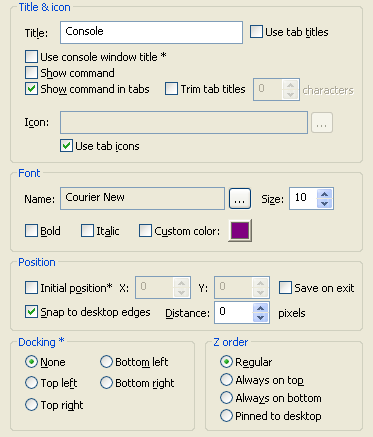
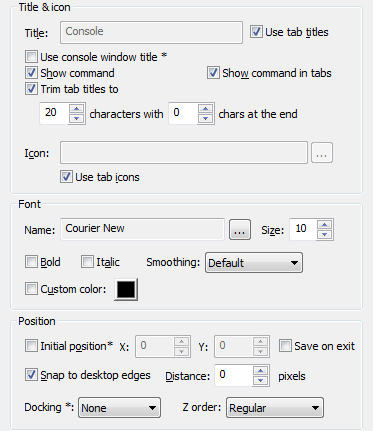
Updates to the original Console help by Vivian De Smedt, Sergey Kozlov
This is a cherry-pick of 5fed8695 with minor corrections.

Changed region(s): [[0.0295, 0.0, 0.9732, 1.0]]

diff --git a/help/html/settings_behavior.html b/help/html/settings_behavior.html
@@ -23,6 +23,18 @@
 	</p>
 	<br />
 
+	<p class="block-row-name">Clear selection on copy</p>
+	<p class="block-row-description">
+		If checked, the selection will be cleared right after being copied.
+		For example, if <b>Copy on select</b> is not checked, you would need to either press
+		<i>Copy selection</i> hotkey or perform <i>Copy/clear selection</i> mouse action to
+		copy the selection to the system clipboard. If this checkbox is checked then
+		the selection will be cleared right after you perform one of those actions. Otherwise,
+		you will need to press <i>Clear selection</i> hotkey or perform <i>Copy/clear selection</i>
+		mouse action to return to the normal mode.
+	</p>
+	<br />
+
 	<p class="block-row-name">Don't wrap long lines</p>
 	<p class="block-row-description">
 		If checked, long lines will not be wrapped. When a selected row 
@@ -52,6 +64,36 @@
 	</p>
 	<br />
 
+	<h2>Copy new line character</h2>
+
+	<p class="block-row-name">Windows (CR+LF)</p>
+	<p class="block-row-description">
+		If selected the copy operation will convert the carriage return using the Windows convention.
+	</p>
+
+	<p class="block-row-name">Unix (LF)</p>
+	<p class="block-row-description">
+		If selected the copy operation will convert the carriage return using the Unix convention.
+	</p>
+	<br />
+
+	<h2>Inactive tab activity flash</h2>
+
+	<p class="block-row-name">Flash inactive tabs</p>
+	<p class="block-row-description">
+		If checked, the inactive tabs flashes when some activities are detected in the corresponding console.
+	</p>
+
+	<p class="block-row-name">Falshes</p>
+	<p class="block-row-description">
+		Indicate the number of times an inactive tab will flash when some activities are detected in the corresponding console.
+	</p>
+
+	<p class="block-row-name">Leave highlighted</p>
+	<p class="block-row-description">
+		If checked, the inactive tab where some activities have been detected in the corresponding console will stay highlighted
+		even if the activities have stopped.
+	</p>
 </body>
 
 </html>

diff --git a/help/html/settings_appearance.html b/help/html/settings_appearance.html
@@ -18,13 +18,13 @@
 
 	<p class="block-row-name">Title</p>
 	<p class="block-row-description">
-		Specifies initial Console title.
+		Specifies the main window title.
 	</p>
 	<br />
 
 	<p class="block-row-name">Use tab titles</p>
 	<p class="block-row-description">
-		If checked, main window title will be set to active tab's title.
+		If checked, main window title will be set to the active tab's title.
 	</p>
 	<br />
 
@@ -53,6 +53,19 @@
 	<p class="block-row-description">
 		If checked, tab titles will be trimmed to specified number of 
 		characters.
+	</p>
+	<br />
+
+	<p class="block-row-name">character width</p>
+	<p class="block-row-description">
+		Specify the maximum number of character of the tab name.
+	</p>
+	<br />
+
+	<p class="block-row-name">chars at end</p>
+	<p class="block-row-description">
+		Specify the number of characters to take from the end of the string.
+		The total number will not exceed the <b>character width</b>.
 	</p>
 	<br />
 
@@ -108,7 +121,7 @@
 
 	<h2>Position</h2>
 
-	<p class="block-row-name">Position window</p>
+	<p class="block-row-name">Initial position</p>
 	<p class="block-row-description">
 		When checked, allows you to specify initial window position. Otherwise, 
 		initial Console window position will be determined by Windows.
@@ -133,7 +146,7 @@
 	</p>
 	<br />
 
-	<p class="block-row-name">Snap distance</p>
+	<p class="block-row-name">Distance</p>
 	<p class="block-row-description">
 		Specifies window snap disance.
 	</p>

diff --git a/help/html/settings.html b/help/html/settings.html
@@ -1,0 +1,29 @@
+<!DOCTYPE html PUBLIC "-//W3C//DTD XHTML 1.0 Strict//EN" "http://www.w3.org/TR/xhtml1/DTD/xhtml1-strict.dtd">
+<html xmlns="http://www.w3.org/1999/xhtml" xml:lang="en">
+
+<head>
+	<title>Settings - Console</title>
+	<meta http-equiv="content-type" content='text/html; charset=utf-8' />
+	<link rel="stylesheet" type="text/css" href="../styles/help.css" />
+</head>
+
+<body>
+	<h1>Settings - Console</h1>
+	
+	<p>
+	<img src="../images/settings.png" />
+	</p>
+
+	<p class="block-row-name">Save settings to user directory</p>
+	<p class="block-row-description">
+		Settings are loaded from user directory by default.
+		If no settings are found in user directory they are loaded from the Console directory.
+		Setting are by default saved to where they have been loaded.
+		If for rights reason this is not possible settings are saved to user directory.
+		If "Save setting to user directory" is checked settings are saved to user directory in any cases.
+	</p>
+	<br />
+
+</body>
+
+</html>

diff --git a/help/html/settings_appearance_more.html b/help/html/settings_appearance_more.html
@@ -46,6 +46,24 @@
 	</p>
 	<br />
 
+	<p class="block-row-name">Tabs on bottom</p>
+	<p class="block-row-description">
+		If checked, tabs bar will appear at the bottom of the main window.
+	</p>
+	<br />
+
+	<p class="block-row-name">Show scrollbars</p>
+	<p class="block-row-description">
+		If checked, scrollbars will be shown if the underlying console shows them.
+		If not checked, scrollbars will be always hidden.
+	</p>
+	<br />
+
+	<p class="block-row-name">Flat scrollbars</p>
+	<p class="block-row-description">
+		If checked, the style of the scrollbars will be flat if available.
+	</p>
+	<br />
 
 	<h2>Styles</h2>
 
@@ -82,6 +100,12 @@
 	<p class="block-row-name">Inside border</p>
 	<p class="block-row-description">
 		Specifies Console's inside (client area) border.
+	</p>
+	<br />
+
+	<p class="block-row-name">Selection color</p>
+	<p class="block-row-description">
+		Sets the background color of the selection. The foreground color will be affected by this color.
 	</p>
 	<br />
 

diff --git a/help/html/menus.html b/help/html/menus.html
@@ -38,9 +38,21 @@
 	</p>
 	<br/>
 
+	<p class="block-row-name">Clear selection</p>
+	<p class="block-row-description">
+		Clears current selection.
+	</p>
+	<br/>
+
 	<p class="block-row-name">Paste</p>
 	<p class="block-row-description">
 		Pastes text from clipboard.
+	</p>
+	<br/>
+
+	<p class="block-row-name">Stop scrolling</p>
+	<p class="block-row-description">
+		When a command produces a lot of output this action prevents the underlying console to scroll by switching to the Select mode. Hit Esc or Enter key to resume scrolling.
 	</p>
 	<br/>
 

diff --git a/help/html/copyright.html b/help/html/copyright.html
@@ -11,7 +11,7 @@
 	<h1>Copyright</h1>
 	
 	<p>
-		Console is Copyright (C) 2001-2007 Marko Bozikovic
+		Console is Copyright (C) 2001-2011 Marko Bozikovic
 	</p>
 	<p>
 		This program is free software; you can redistribute it and/or modify
@@ -33,7 +33,7 @@
 		<a href="mailto:marko.bozikovic@gmail.com">marko.bozikovic@gmail.com</a>
 	</p>
 	<p>
-		Console program icon is Copyright (C) 2001-2006 Ante Vukorepa 
+		Console program icon is Copyright (C) 2001-2011 Ante Vukorepa
 		(orcinus@kset.org)
 	</p>
 	<p>

diff --git a/help/html/settings_tabs.html b/help/html/settings_tabs.html
@@ -55,6 +55,12 @@
 	</p>
 	<br />
 
+	<p class="block-row-name"Run as user">
+	<p class="block-row-description">
+		If the checkbox is checked, a dialog, asking for another user's credentials will be displayed.
+		The dialog will be pre-populated with the given user name.
+	</p>
+	<br />
 
 	<h2>Cursor</h2>
 
